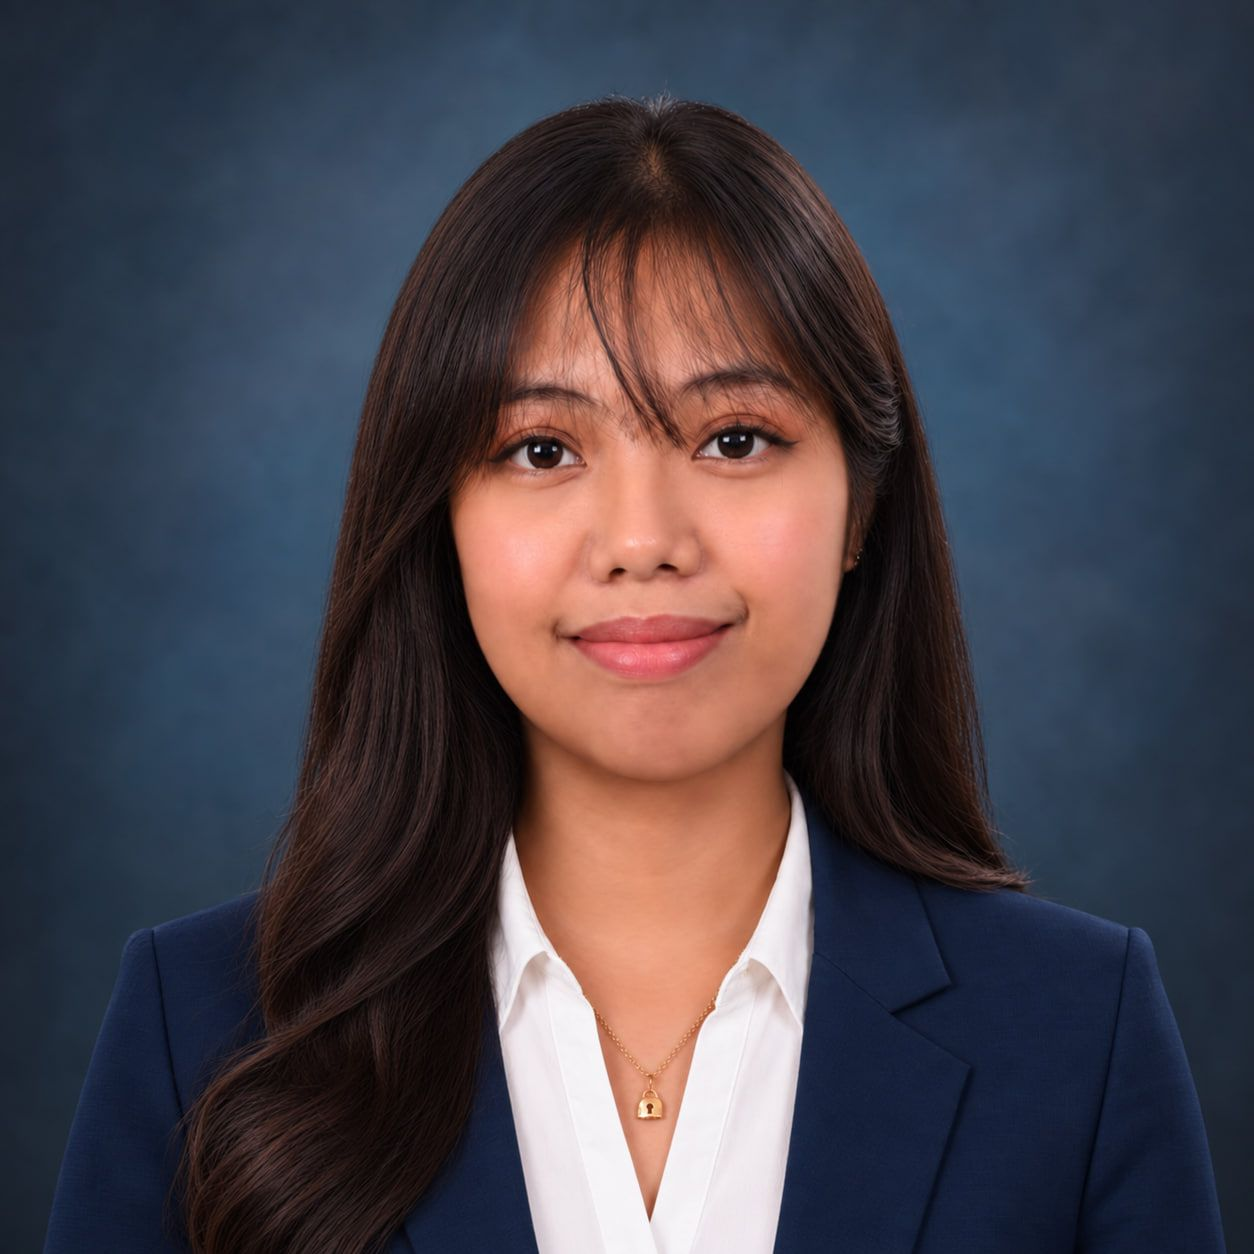
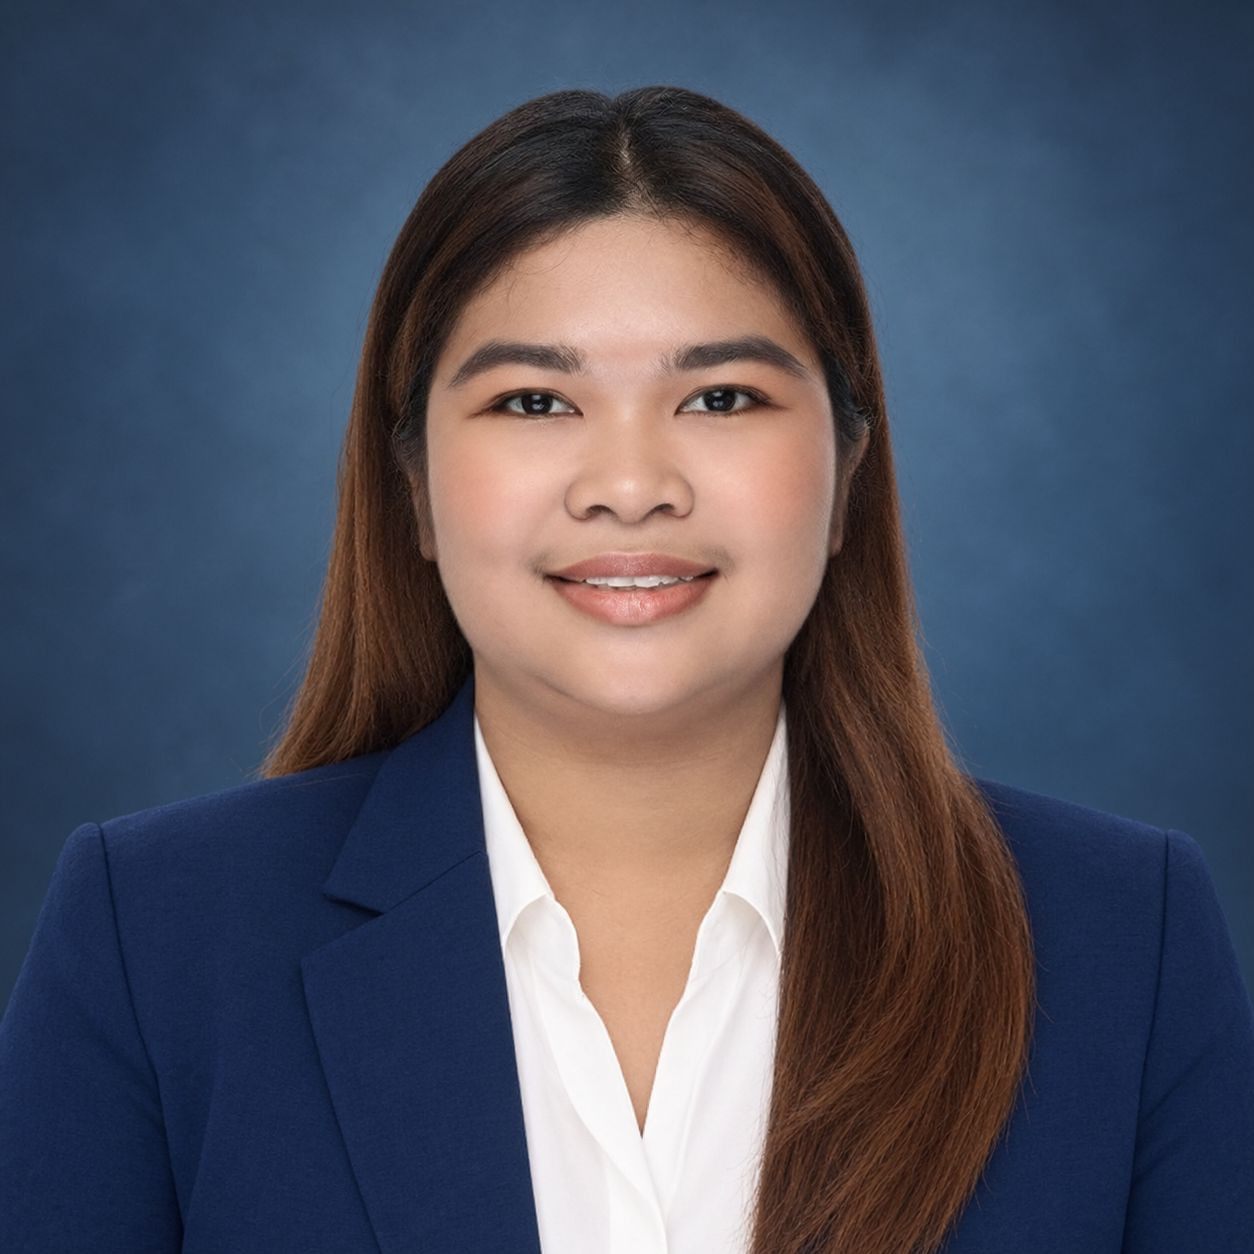
update picture and add staff

diff --git a/lib/site.ts b/lib/site.ts
@@ -337,8 +337,9 @@ export const supportManager = {
 
 export const supportAssociates = [
   
-  { name: "Hannah M. Sarmiento", image: "/team/natalie-a-troncales.jpg" },
-  { name: "Natalie A. Troncales", image: "/team/hannah-m-sarmiento.jpg" },
+  { name: "Hannah M. Sarmiento", image: "/team/hannah-m-sarmiento.jpg" },
+  { name: "Natalie A. Troncales", image: "/team/natalie-a-troncales.jpg" },
+  { name: "Merickall Maetrix P. Javillo", image: "/team/merickall-maetrix-p-javillo.jpg" },
 ] as const;
 
 export const supportTeam = {
